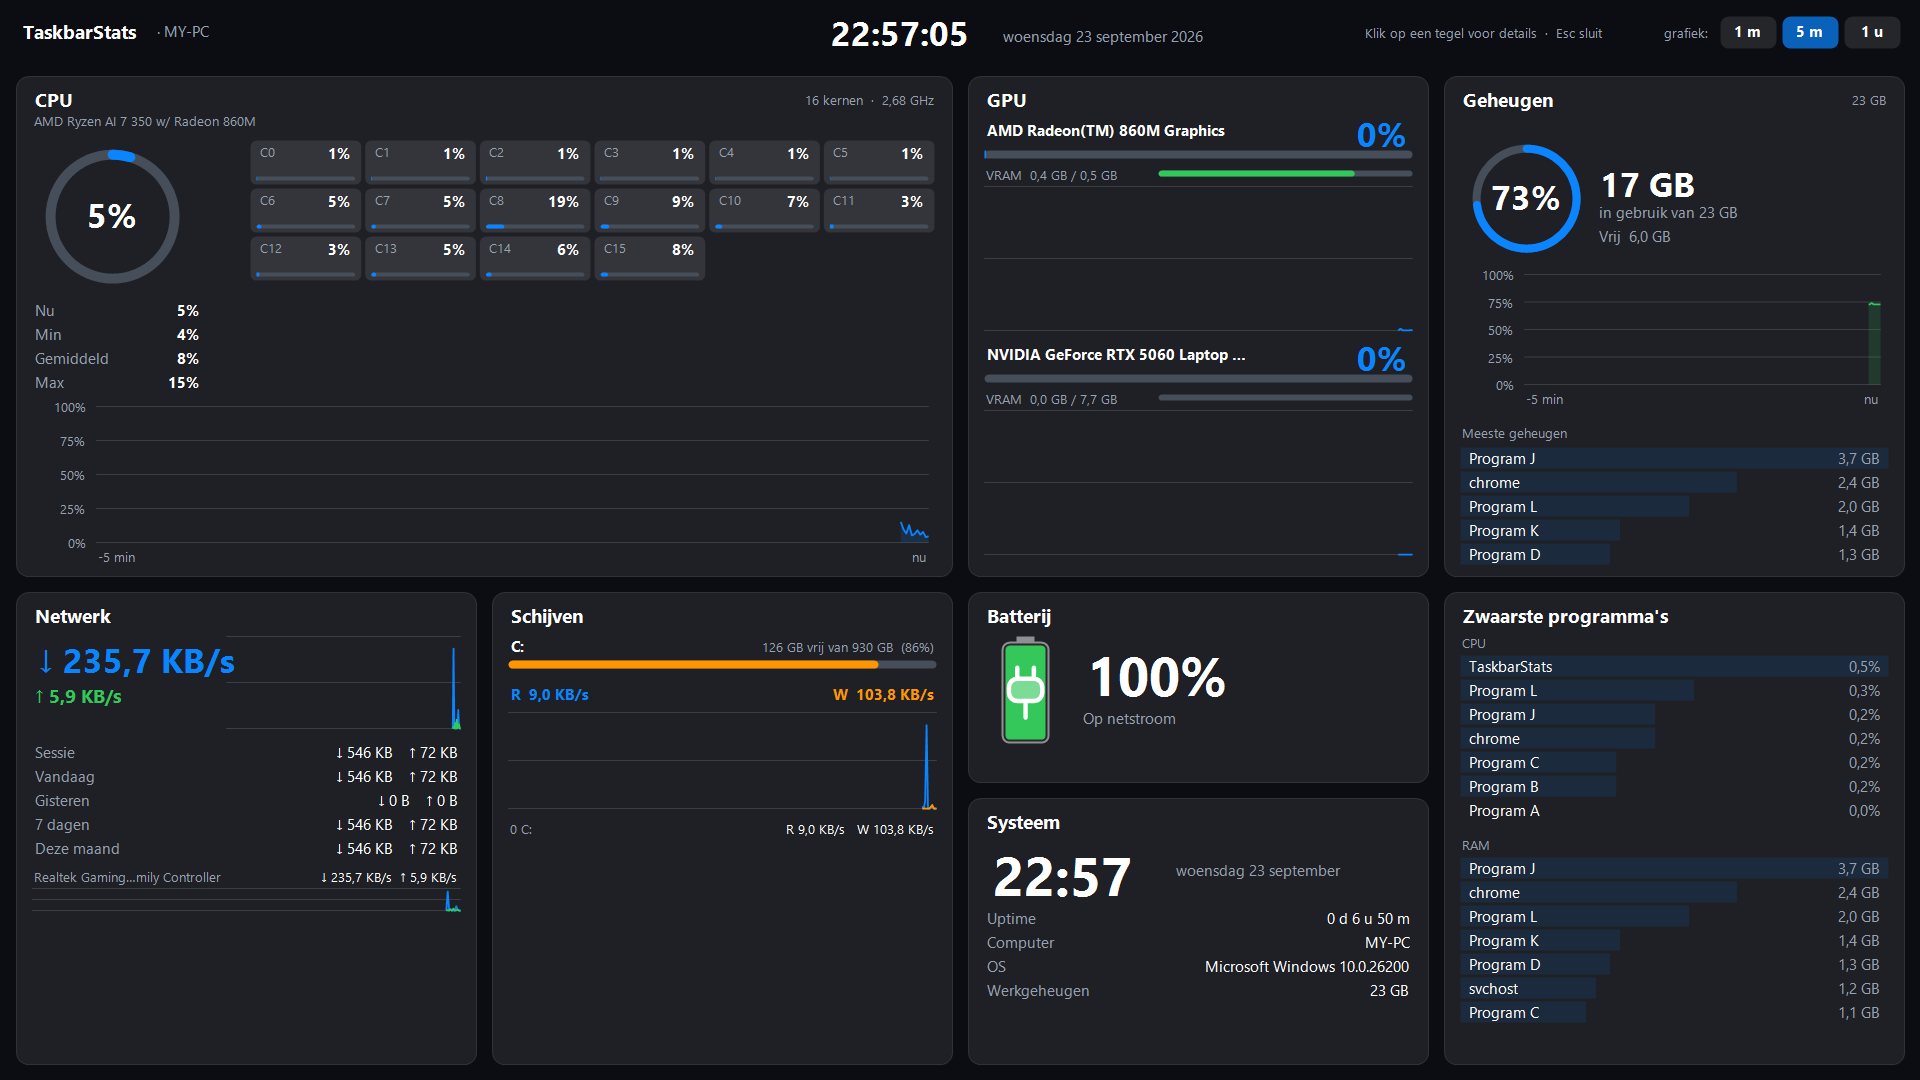
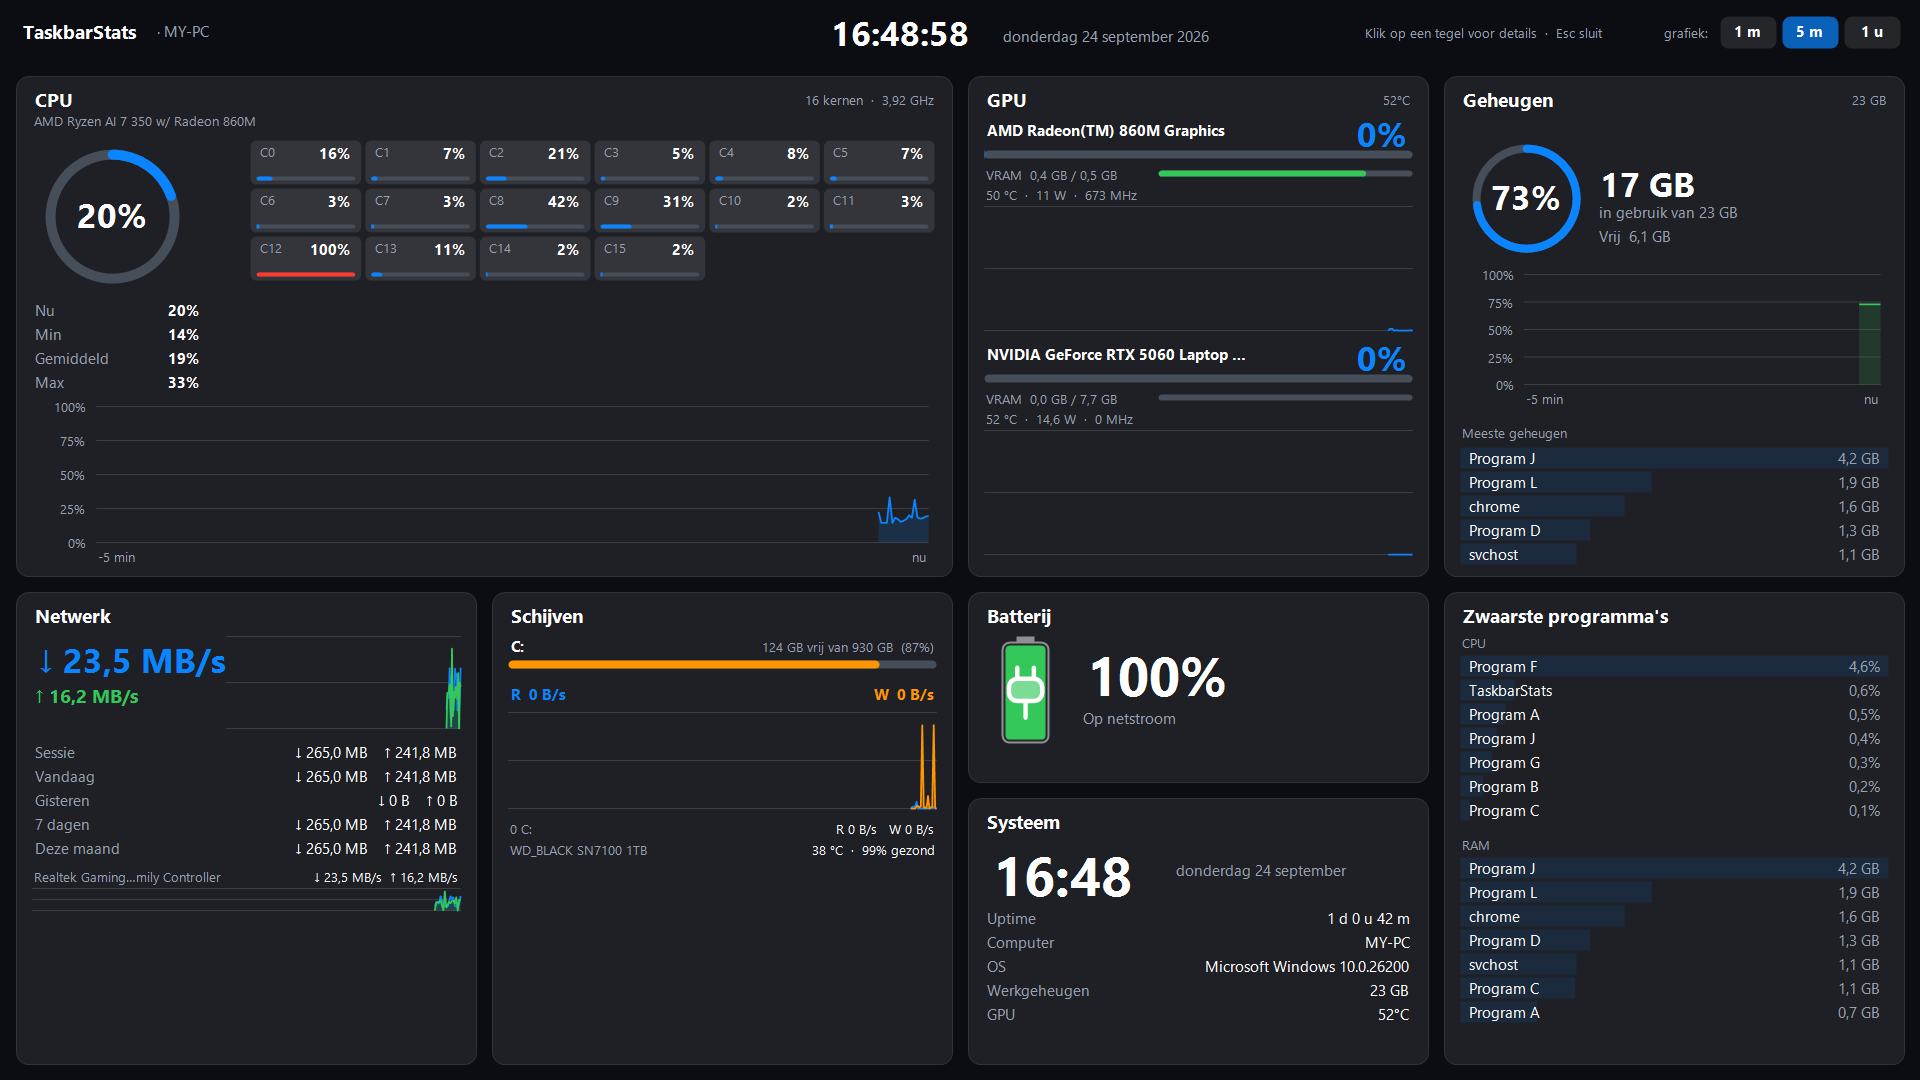
Screenshots bijgewerkt: fullscreen met sensoren (overzicht, GPU, schijven)

diff --git a/README.md b/README.md
@@ -25,6 +25,8 @@ overeenkomen met Task Manager. Daarnaast een groot bureaublad-dashboard en een f
 ![Fullscreen overzicht](docs/screenshots/fullscreen-overview.png)
 ![Fullscreen CPU-details](docs/screenshots/fullscreen-cpu.png)
 ![Fullscreen netwerk-details](docs/screenshots/fullscreen-net.png)
+![Fullscreen GPU-details met sensoren](docs/screenshots/fullscreen-gpu.png)
+![Fullscreen schijf-details met temperatuur en gezondheid](docs/screenshots/fullscreen-disk.png)
 
 *(Computernaam en programmanamen in de screenshots zijn geanonimiseerd.)*
 
